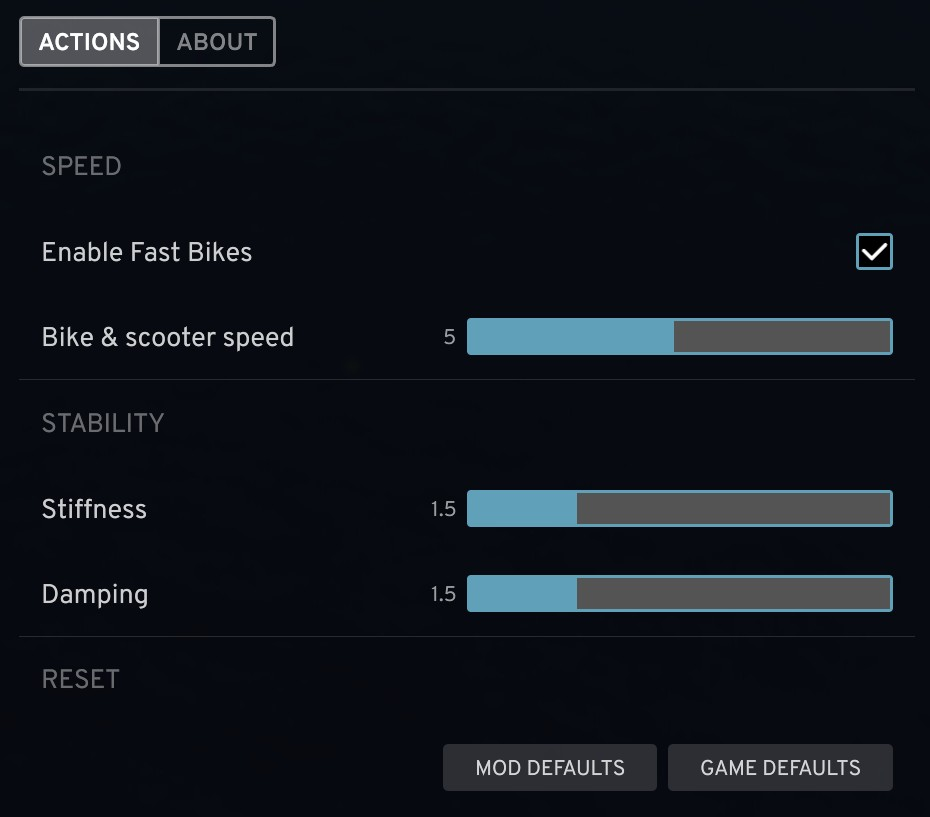
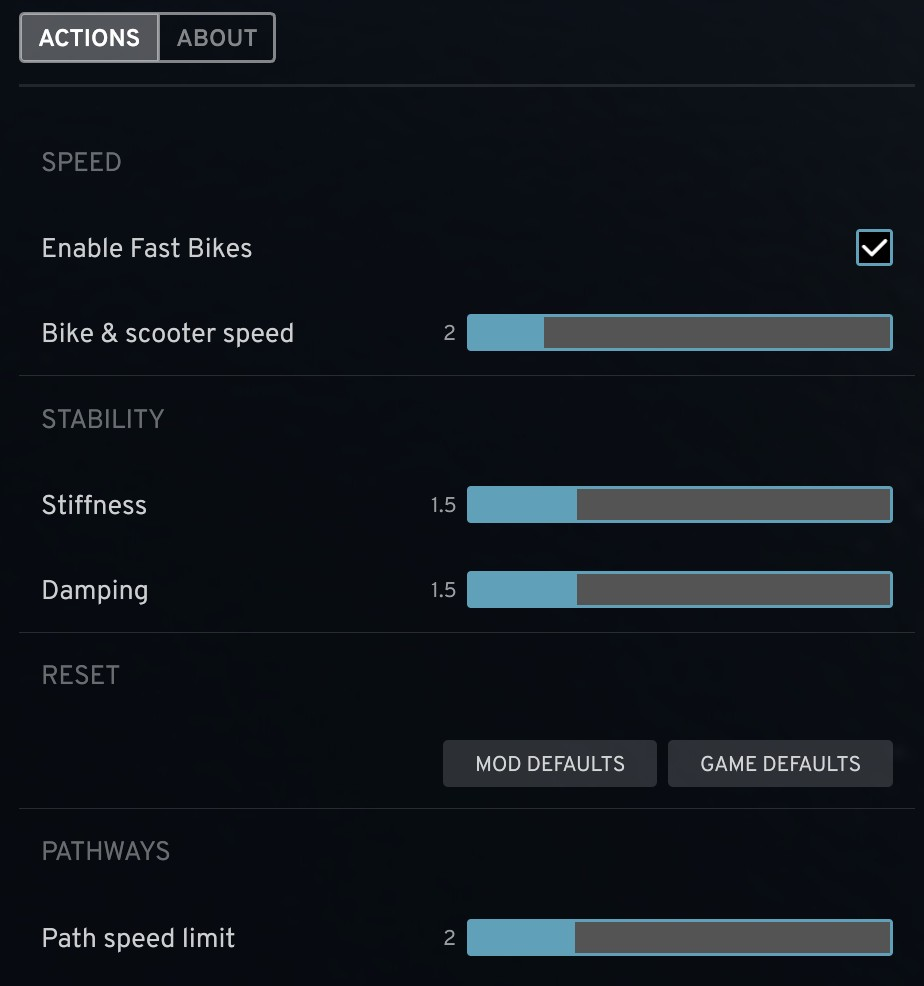
change path scalar to 5x

diff --git a/Localization/LocaleEN.cs b/Localization/LocaleEN.cs
@@ -37,7 +37,7 @@ namespace FastBikes
                 { m_Setting.GetOptionGroupLocaleID(Setting.ActionsSpeedGrp), "Speed" },
                 { m_Setting.GetOptionGroupLocaleID(Setting.ActionsStabilityGrp), "Stability" },
                 { m_Setting.GetOptionGroupLocaleID(Setting.ActionsResetGrp), "Reset" },
-                { m_Setting.GetOptionGroupLocaleID(Setting.ActionsPathSpeedGrp), "Pathways" },
+                { m_Setting.GetOptionGroupLocaleID(Setting.ActionsPathSpeedGrp), "Paths" },
 
                 { m_Setting.GetOptionGroupLocaleID(Setting.AboutInfoGrp), "Mod info" },
                 { m_Setting.GetOptionGroupLocaleID(Setting.AboutLinksGrp), "Links" },

diff --git a/Systems/FastBikeSystem.cs b/Systems/FastBikeSystem.cs
@@ -105,7 +105,7 @@ namespace FastBikes
                 int tunedCars = ApplyBicycleTuning(speedScalar);
                 int tunedSway = ApplyBicycleSwaying(forceVanilla, stiffnessScalar, dampingScalar);
 
-                float pathScalar = forceVanilla ? 1.0f : math.clamp(setting.PathSpeedScalar, 1.0f, 10.0f);
+                float pathScalar = forceVanilla ? 1.0f : math.clamp(setting.PathSpeedScalar, 1.0f, 5.0f);
                 int tunedPaths = ApplyPathwaySpeedLimit(pathScalar);
 
 #if DEBUG

diff --git a/Mod.cs b/Mod.cs
@@ -78,10 +78,11 @@ namespace FastBikes
             // Settings + Options UI
             try
             {
-     
+
                 // LoadSettings(sectionName, instance, defaultInstance)
                 // Saving is automatic on changes
                 AssetDatabase.global.LoadSettings(ModId, setting, new Setting(this));
+
                 setting.RegisterInOptionsUI();
             }
             catch (Exception ex)
